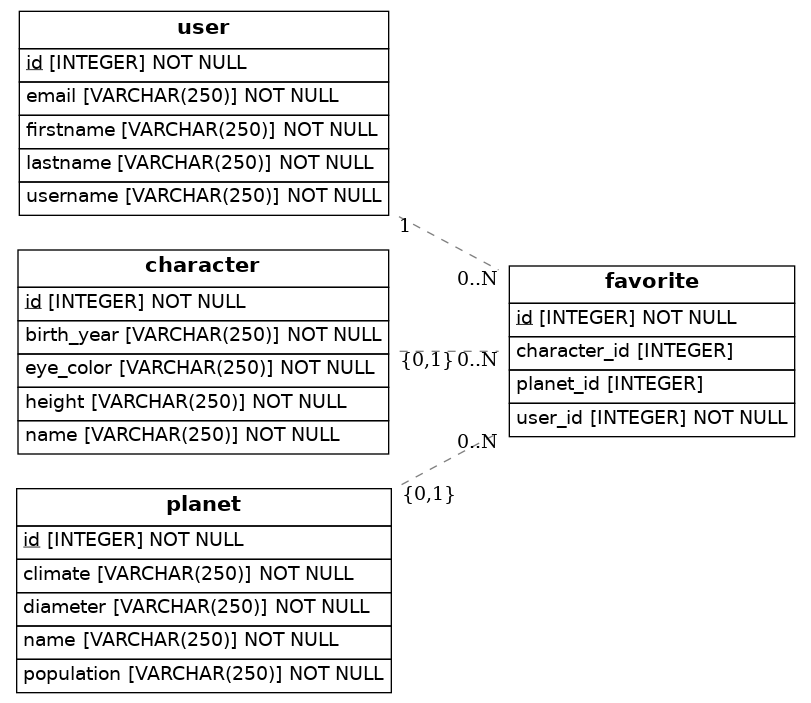
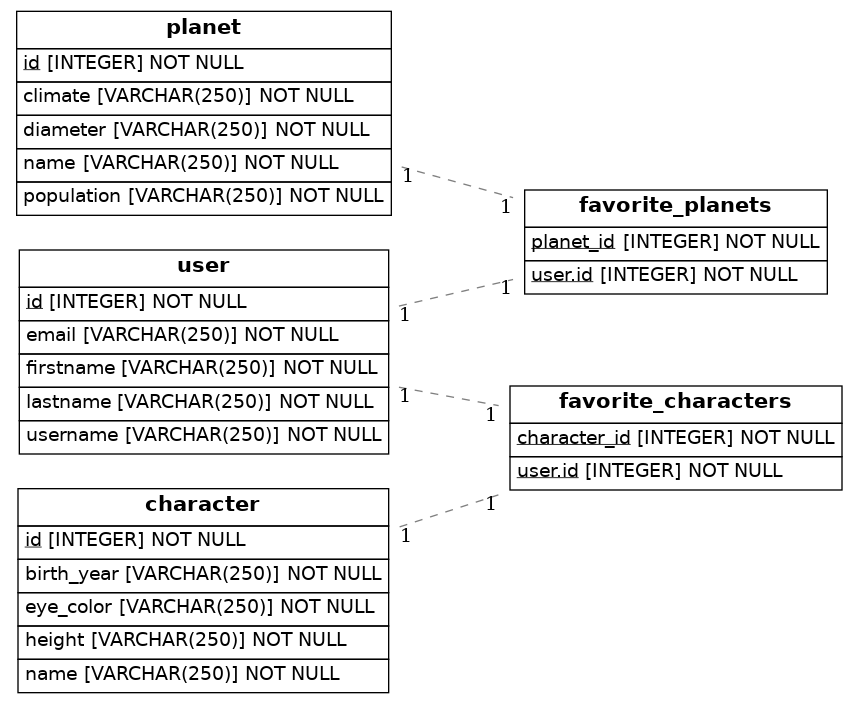
terminado 2

diff --git a/src/models.py b/src/models.py
@@ -6,6 +6,18 @@ from eralchemy2 import render_er
 
 Base = declarative_base()
 
+favorite_planets = Table(
+    'favorite_planets', Base.metadata,
+    Column('user.id', Integer, ForeignKey('user.id'), primary_key=True),
+    Column('planet_id', Integer, ForeignKey('planet.id'), primary_key=True)
+)
+
+favorite_characters = Table(
+    'favorite_characters', Base.metadata,
+    Column('user.id', Integer, ForeignKey('user.id'), primary_key=True),
+    Column('character_id', Integer, ForeignKey('character.id'), primary_key=True)
+)
+
 class User(Base):
     __tablename__ = 'user'
     id = Column(Integer, primary_key=True)
@@ -13,7 +25,8 @@ class User(Base):
     firstname = Column(String(250), nullable=False)
     lastname = Column(String(250), nullable=False)
     email = Column(String(250), nullable=False)
-    favorites = relationship('Favorite', backref='user')
+    favorite_planets = relationship('Planet', secondary=favorite_planets, backref='favorited_by')
+    favorite_characters = relationship('Character', secondary=favorite_characters, backref='favorited_by')
 
 class Character(Base):
     __tablename__ = 'character'
@@ -22,7 +35,6 @@ class Character(Base):
     birth_year = Column(String(250), nullable=False)
     eye_color = Column(String(250), nullable=False)
     height = Column(String(250), nullable=False)
-    favorites = relationship('Favorite', backref='character')
 
 class Planet(Base):
     __tablename__ = 'planet'
@@ -31,14 +43,13 @@ class Planet(Base):
     diameter = Column(String(250), nullable=False)
     climate = Column(String(250), nullable=False)
     population = Column(String(250), nullable=False)
-    favorites = relationship('Favorite', backref='planet')
 
-class Favorite(Base):
-    __tablename__ = 'favorite'
-    id = Column(Integer, primary_key=True)
-    user_id = Column(Integer, ForeignKey('user.id'), nullable=False)
-    character_id = Column(Integer, ForeignKey('character.id'), nullable=True)
-    planet_id = Column(Integer, ForeignKey('planet.id'), nullable=True)
+# class Favorite(Base):
+#     __tablename__ = 'favorite'
+#     id = Column(Integer, primary_key=True)
+#     user_id = Column(Integer, ForeignKey('user.id'), nullable=False)
+#     character_id = Column(Integer, ForeignKey('character.id'), nullable=True)
+#     planet_id = Column(Integer, ForeignKey('planet.id'), nullable=True)
 
 ## Draw from SQLAlchemy base
 try:
